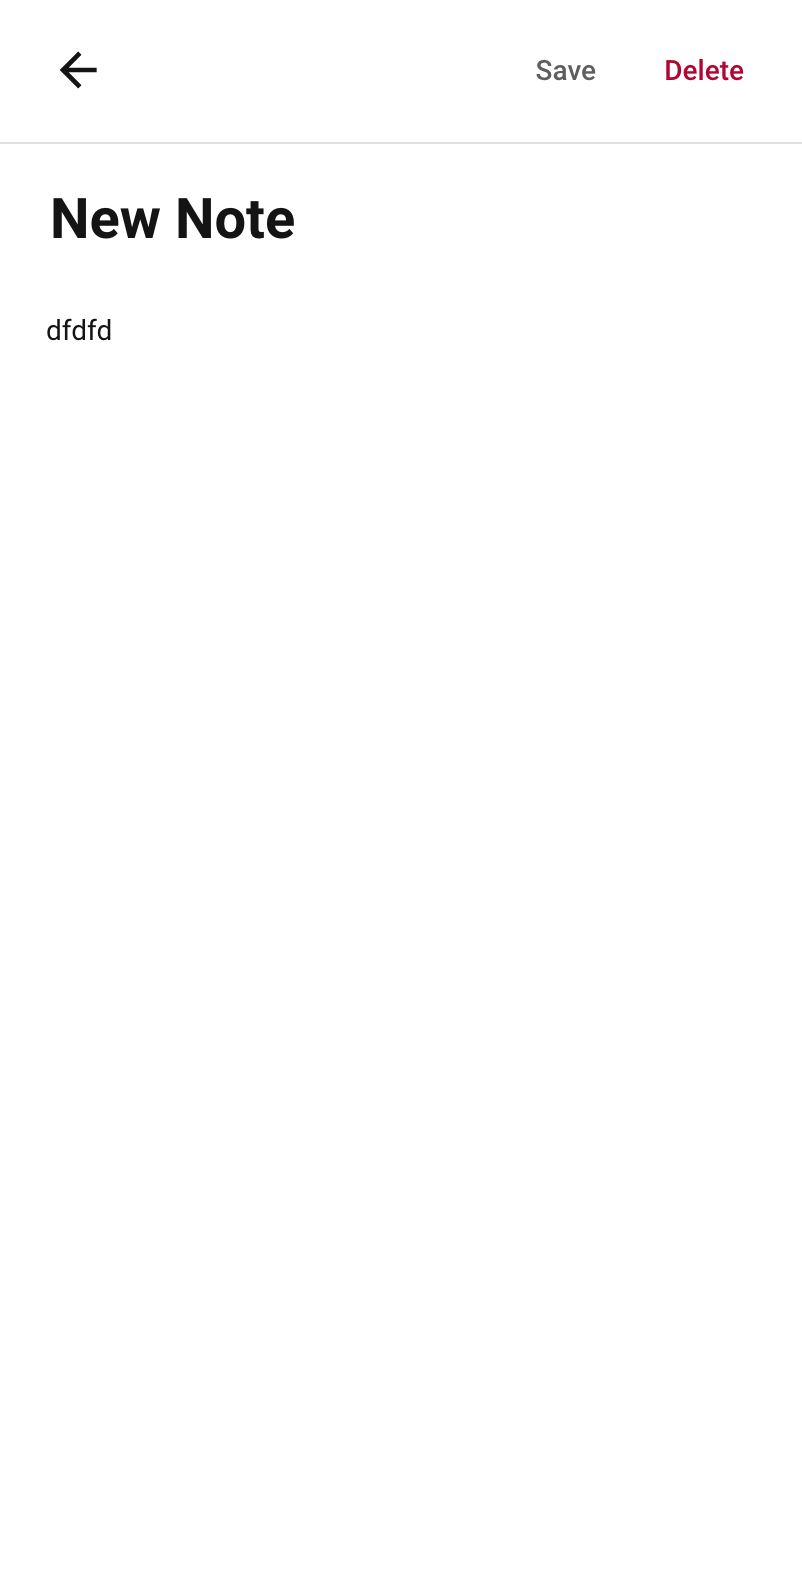
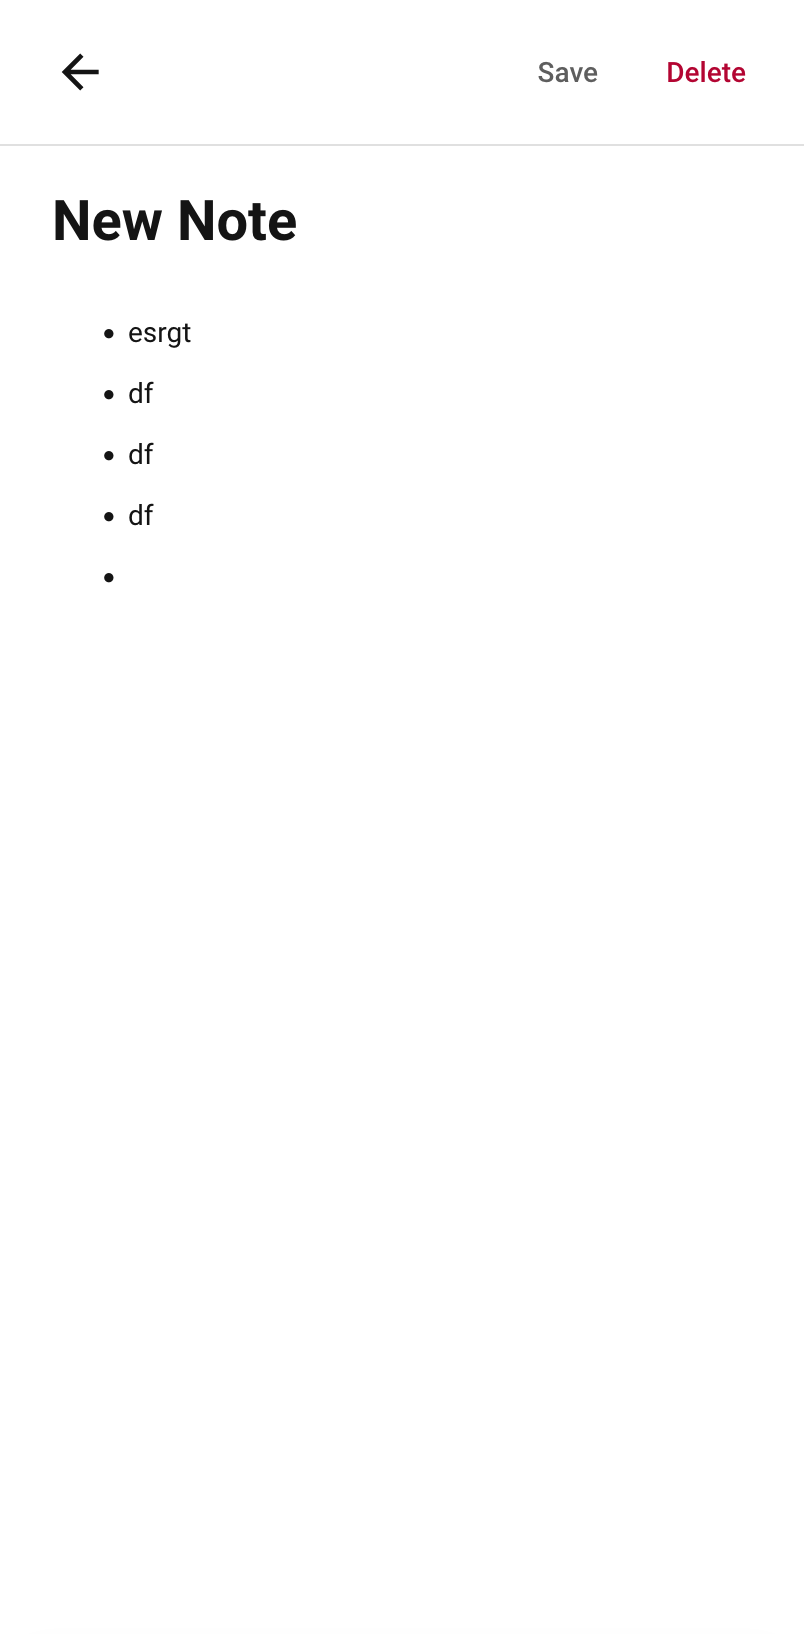
Add HACS badges, My Home Assistant setup shortcut, and updated screenshots to README
Flattens the Installation section out of a collapsible <details>, adds
the HACS repository and config_flow_start deep-link badges, credits
Tiptap for rich text editing, and lists the code/code block/blockquote
formatting actions that were missing from the toolbar table.

diff --git a/README.md b/README.md
@@ -13,21 +13,26 @@ A notes panel for Home Assistant with rich text editing, dark mode support, and 
 
 ## Features
 
-- Rich text editor — headings, bold, italic, lists, checklists, highlights, links
+- Rich text editing via [Tiptap](https://tiptap.dev/) headings, bold, italic, lists, checklists, highlights, links
 - Ten note colors with pin support
 - Real-time search
 - Dashboard card to display notes on any view
 - Auto-save
 - Dark mode
 
-<details>
-<summary>Installation</summary>
+## Installation
 
 ### HACS (recommended)
+
+[![hacs_badge](https://img.shields.io/badge/HACS-Custom-orange.svg?style=for-the-badge)](https://github.com/hacs/integration)
 
 1. Open HACS → Integrations → ⋮ → Custom repositories
 2. Add `https://github.com/dimac-h/Home-Assistant-Notes` as an Integration
 3. Download **Home Assistant Notes** and restart Home Assistant
+
+Or click the button below (requires [My Home Assistant](https://www.home-assistant.io/integrations/my/) configured) to open the repository directly in HACS:
+
+[![Open your Home Assistant instance and open a repository inside the Home Assistant Community Store.](https://my.home-assistant.io/badges/hacs_repository.svg)](https://my.home-assistant.io/redirect/hacs_repository/?owner=dimac-h&repository=Home-Assistant-Notes&category=integration)
 
 ### Manual
 
@@ -35,16 +40,16 @@ Copy the `custom_components/better_notes` folder into your HA `custom_components
 
 ### Setup
 
-Go to **Settings → Devices & Services → Add Integration** and search for *Home Assistant Notes*. The panel appears in the sidebar automatically.
+Go to **Settings → Devices & Services → Add Integration** and search for *Home Assistant Notes*, or click the shortcut button below. The panel appears in the sidebar automatically.
 
-</details>
+[![Add Integration to your Home Assistant instance.](https://my.home-assistant.io/badges/config_flow_start.svg)](https://my.home-assistant.io/redirect/config_flow_start/?domain=better_notes)
 
 ## Formatting toolbar
 
 | Button  | Action                                                 |
 |---------|--------------------------------------------------------|
 | **H▾**  | Heading level (Normal / H1 / H2 / H3)                  |
-| **B▾**  | Bold, Italic, Strikethrough, Highlight                 |
+| **B▾**  | Bold, Italic, Strikethrough, Highlight, Code, Code block, Blockquote |
 | **≡▾**  | Bullet list, Numbered list, Checklist, Indent, Outdent |
 | **🎨▾** | Note color                                             |
 | **📌**  | Pin / unpin                                            |
